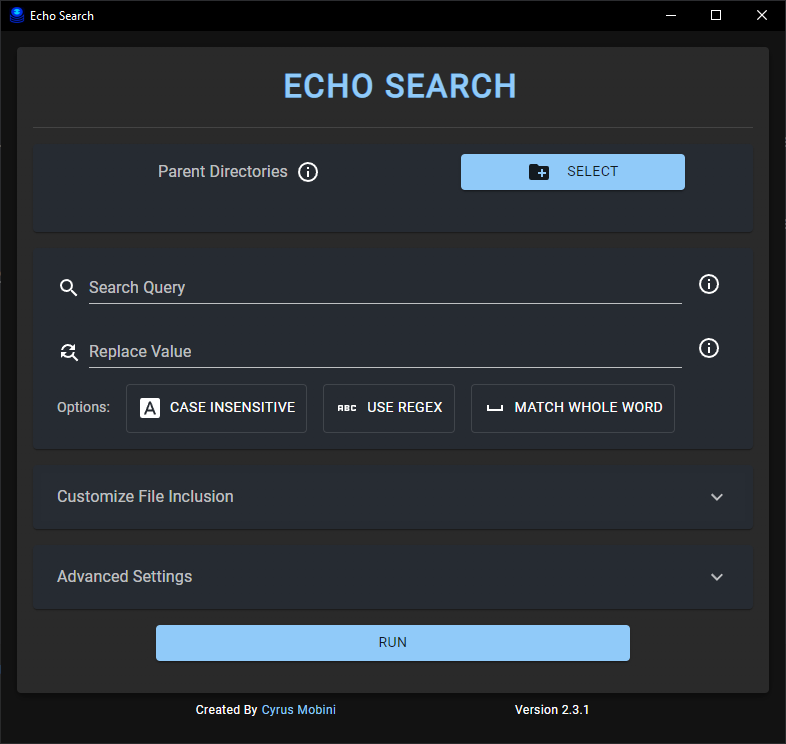
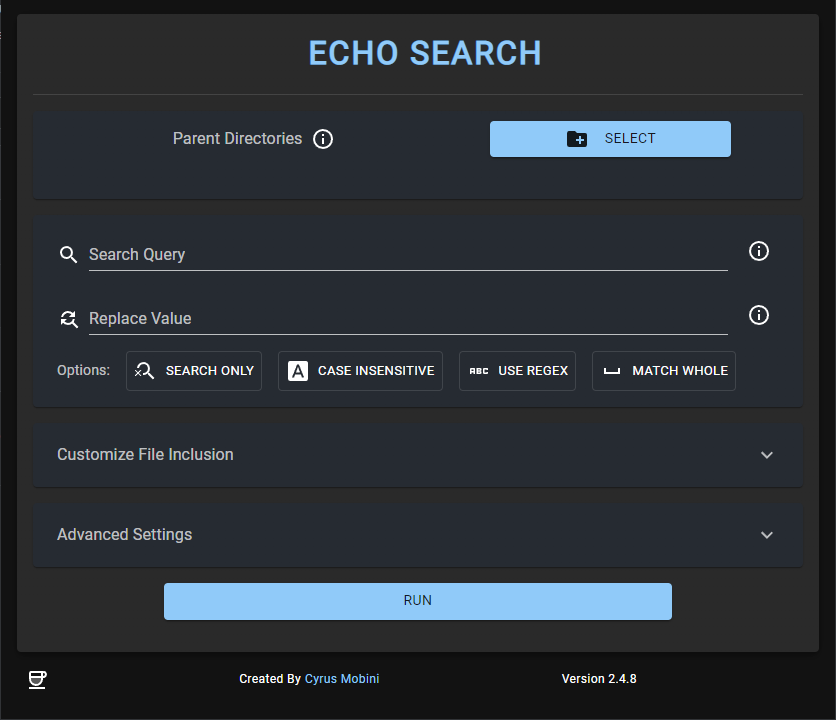
Enhanced documentation, tooltips and screenshots (#33)
* Enhanced documentation, tooltips and screenshots

* Updated file names

diff --git a/src/Client/Components/MultiThreading.js b/src/Client/Components/MultiThreading.js
@@ -23,9 +23,9 @@ const MultiThreadingTooltip = styled(({ className, ...props }) => (
         Higher number of threads does NOT mean faster results. Concurrency
         depends on different factors such as the <em>number of threads</em>,
         <em> power of each core</em>, and the
-        <em> amount of available memory</em>. Note that concurrency uses
-        considerably more amount memory. Please be sure not overload your system
-        memory. With Concurrency you might feel some asynchronously or miss some
+        <em> amount of the available memory</em>. Note that concurrency uses
+        considerably more amount of memory. Please be sure not overload your system
+        memory. With Concurrency you might feel some asynchronous behavior or miss some
         messages. <br></br> You're not allowed to use more than <b>80%</b> of
         your CPU cores.<br></br> We recommend testing with different number of
         threads to find the best performance.

diff --git a/src/Client/Components/ExcludeSelector.js b/src/Client/Components/ExcludeSelector.js
@@ -54,7 +54,7 @@ function ExcludeSelector({ form }) {
         <Box sx={{ width: "100%", display: "flex", alignItems: "center" }}>
           <Typography variant="body1">Files/Directories To Exclude:</Typography>
           <Tooltip
-            title="Path can complete or partial match. It can also be used to exclude specific file extensions."
+            title="Paths can be complete or partial match. It can also be used to exclude specific file extensions."
             sx={{ ml: 1 }}
           >
             <IconButton>

diff --git a/README.md b/README.md
@@ -1,59 +1,101 @@
 # Eco-Search
+
 [![release](https://img.shields.io/github/v/release/cyrus2281/Echo-Search?color=00ff00)](https://github.com/cyrus2281/Echo-Search/releases)
 [![version](https://img.shields.io/github/package-json/v/cyrus2281/Echo-Search)](https://github.com/cyrus2281/Echo-Search)
 [![License](https://img.shields.io/github/license/cyrus2281/echo-search)](https://github.com/cyrus2281/Echo-Search/blob/main/LICENSE)
 [![react](https://img.shields.io/github/package-json/dependency-version/cyrus2281/Echo-Search/react?logo=react&color=lightblue)](https://reactjs.org/)
 [![electron](https://img.shields.io/github/package-json/dependency-version/cyrus2281/Echo-Search/dev/electron?logo=electron&color=lightblue&logoColor=lightblue)](https://www.electronjs.org/)
+[![buyMeACoffee](https://img.shields.io/badge/BuyMeACoffee-cyrus2281-yellow?logo=buymeacoffee)](https://www.buymeacoffee.com/cyrus2281)
 <br>
 
-This application will crawl recursively through the given parent directory and will look for the given string/regular expression in all text files and replace it with the given string.
+Echo Search is a feature-rich and powerful application that allows you to search for a specific text or regular expression query in the content of files within a directory and its subdirectories. It also offers the ability to replace the found text with another string of your choice. With its wide range of options and capabilities, it is an ideal solution for software developers, data analysts, and anyone looking for an efficient way to search and replace text in files.
 
-You can select multiple parent directories, mark search as case insensitive or matching whole words, provide a multi-line search query, include specific files types, exclude paths or file types, and even configure the regex search modifier flags. You can use concurrency to run the application on multiple threads.
+## Key Features
 
-You get a live report on the search happening in the provided console in the app and you can open each file with desktop's default app or in the respective folder.
+- Search for text or regular expressions: Echo Search supports both simple text queries and complex regular expression queries.
 
-This app is only for text based files and can NOT be used with files such as pdf, doc, excel, etc.
+- Multi-line queries: You can search for text across multiple lines in a single file.
 
-The app is written with Electron (Node) for the backend, and React (JavaScript) for the frontend.
+- Search only mode: If you just want to search for files that contain a specific query, Echo Search has a search only mode that allows you to do just that, without making any replacements.
 
-<br>
+- Case sensitivity: You can choose whether the search should be case sensitive or not.
 
-# Installation
+- Whole word match or partial match: You can choose to search for the entire word only, or allow for partial matches.
 
-1. Download the `latest` release for your operating system from [Releases](https://github.com/cyrus2281/Echo-Search/releases).
+- Multiple parent directories: You can select multiple parent directories to search in, making it easy to search across a wide range of files.
 
-   - Open the latest release
-   - From `Assets` download the version for your operating system
-     - Windows: echo-search-X.X.X.WIN.Setup.exe
-     - MacOS: echo-search-darwin-x64-X.X.X.zip
-     - Linux: clone the code and run `npm i && npm run make:linux`
+- File extension options: You can choose to search in all file types, or select specific file extensions to focus on. You can also exclude specific file extensions if desired.
 
-2. Install the app by running the file.
-3. a shortcut should appear on your desktop/app bar.
+- Concurrent processing: Echo Search supports concurrent processing, allowing you to run the application in multiple threads for faster results. You can select up to 80% of the available cores.
+
+- Regular expression flags: Echo Search supports a range of regular expression flags, allowing you to customize the search even further.
+
+- Live feedback console: Echo Search provides a console with live feedback on the progress of the search, making it easy to monitor its progress. You can also clear the console at any time.
+
+- Direct file and directory access: You can open the updated files or their directories with the file pre-selected directly from the console.
+
+***Note:** This app is only for text based files and can NOT be used with files such as pdf, doc, excel, etc.*
+
+<hr>
+
+## Installation
+
+### Windows
+
+1. Open the `latest` release from [Releases](https://github.com/cyrus2281/Echo-Search/releases).
+2. From `Assets` download the `exe` version.
+   `Echo Search-X.X.X.WIN.Setup.exe`
+3. Install the app by running (double clicking) the file.
+
+### MacOS
+
+1. Open the `latest` release from [Releases](https://github.com/cyrus2281/Echo-Search/releases).
+2. From `Assets` download the `zip` version.
+   `Echo Search-darwin-x64-X.X.X.zip`
+3. After downloading the zip, double click on it to extract the file.
+4. Right click on the file and select open. You might see a warning that the developer is unknown, accept and open the app (this is because the app is not registered under the apple's paid subscription).
+5. Drag and move the app to the application folder.
+
+### Linux
+
+1. Open the `latest` release from [Releases](https://github.com/cyrus2281/Echo-Search/releases).
+2. From `Assets` download the `source code`
+3. unzip the code
+4. from within the repository run: `npm i && npm run make:linux`
+5. the app will be built in the `out` directory (exact path will be visible in the terminal)
 
 That's it. Enjoy the app.
 
-# Demo of Application
-
-### Echo Search Empty
-
-<img src="./images/baseapp.png" />
 <hr>
 
-### Echo Search Filled
+Echo Search is a versatile and efficient tool for searching and replacing text in files. With its extensive range of options and capabilities, it is suitable for a wide range of use cases, whether you are a software developer looking for a quick way to update code, or a data analyst searching for specific information in large datasets. Try Echo Search today and see how it can make your life easier.
 
-<img src="./images/filled.png" />
-<hr>
+## Application Screenshots
 
-### Echo Search Sample output
+<div style="display:flex; gap:2%;">
+  <img src="./images/baseapp.png" width="49%" />
+  <img src="./images/options.png" width="49%" />
+</div>
+<br>
+<div style="display:flex; gap:2%;">
+  <img src="./images/filled.png" width="49%" />
+  <img src="./images/running.png"  width="49%" />
+</div>
 
-<img src="./images/running.png" />
-<hr>
+## License
+
+The app is written using Electron (NodeJS) and React.
+
+Echo Search is licensed under the [BSD 3-Clause](./LICENSE).
 
 ## Java
 
 This app was originally written in Java. the source code for the legacy version is still available in the `Java` directory.
 
 NOTICE: this version is no longer supported the the latest release is the recommend version to use.
+
+<br>
+
+<hr>
 
 Copyright(c) Cyrus Mobini 2023
